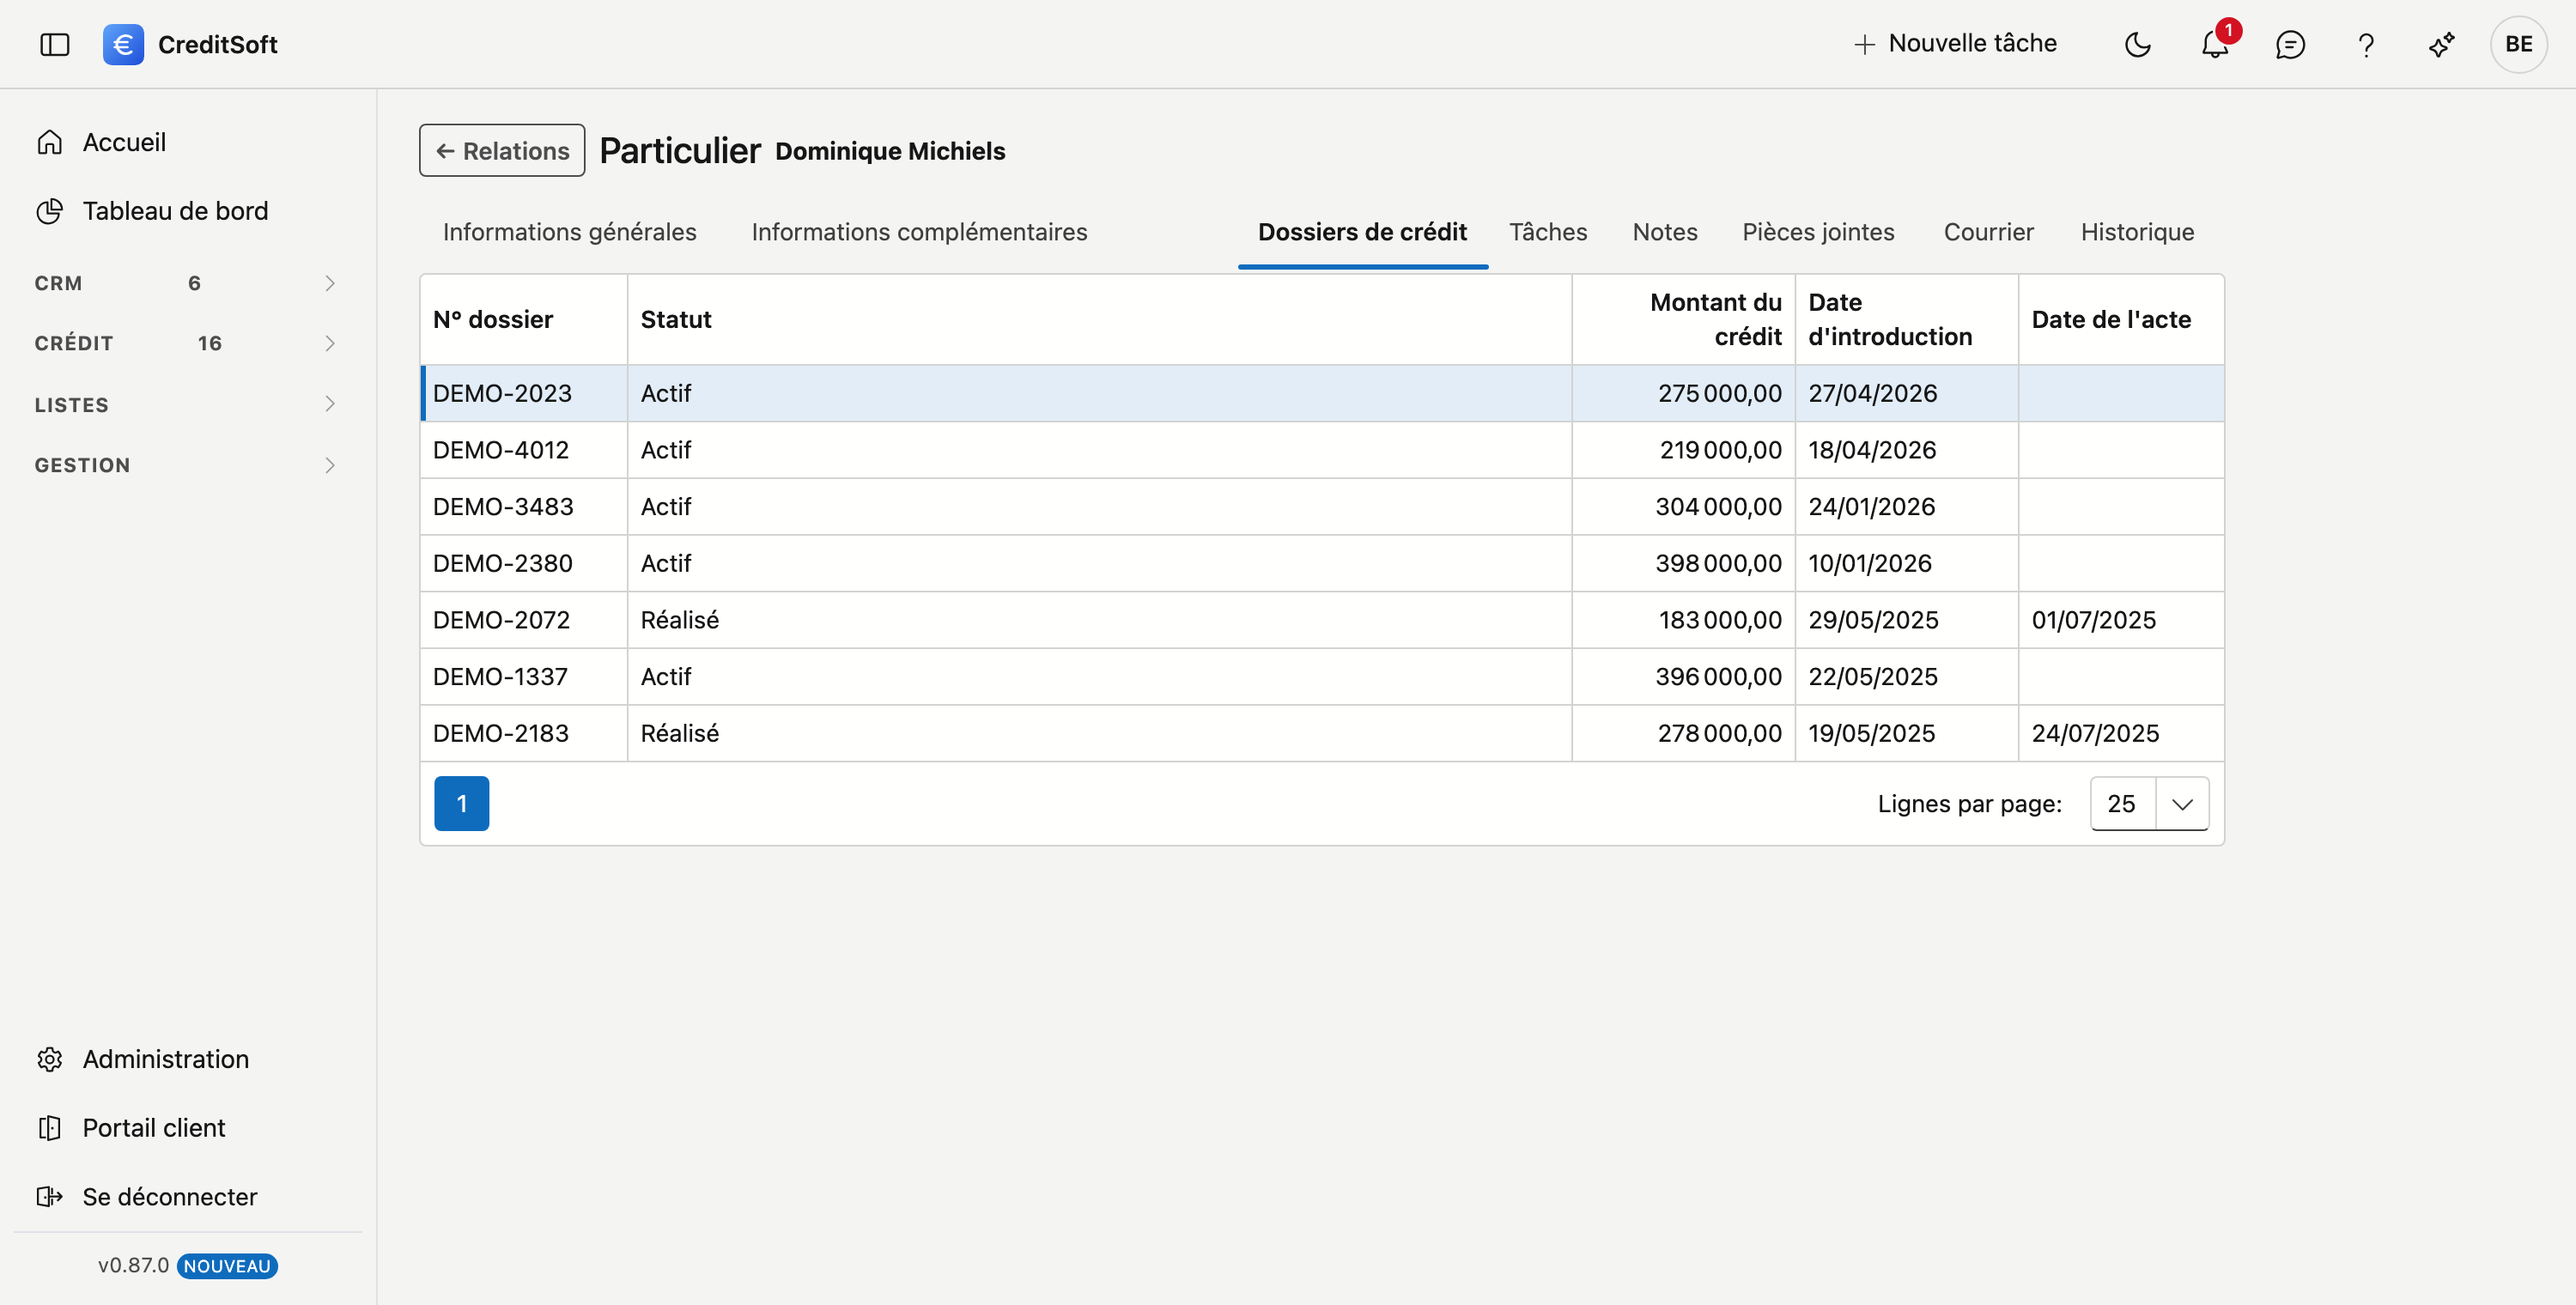
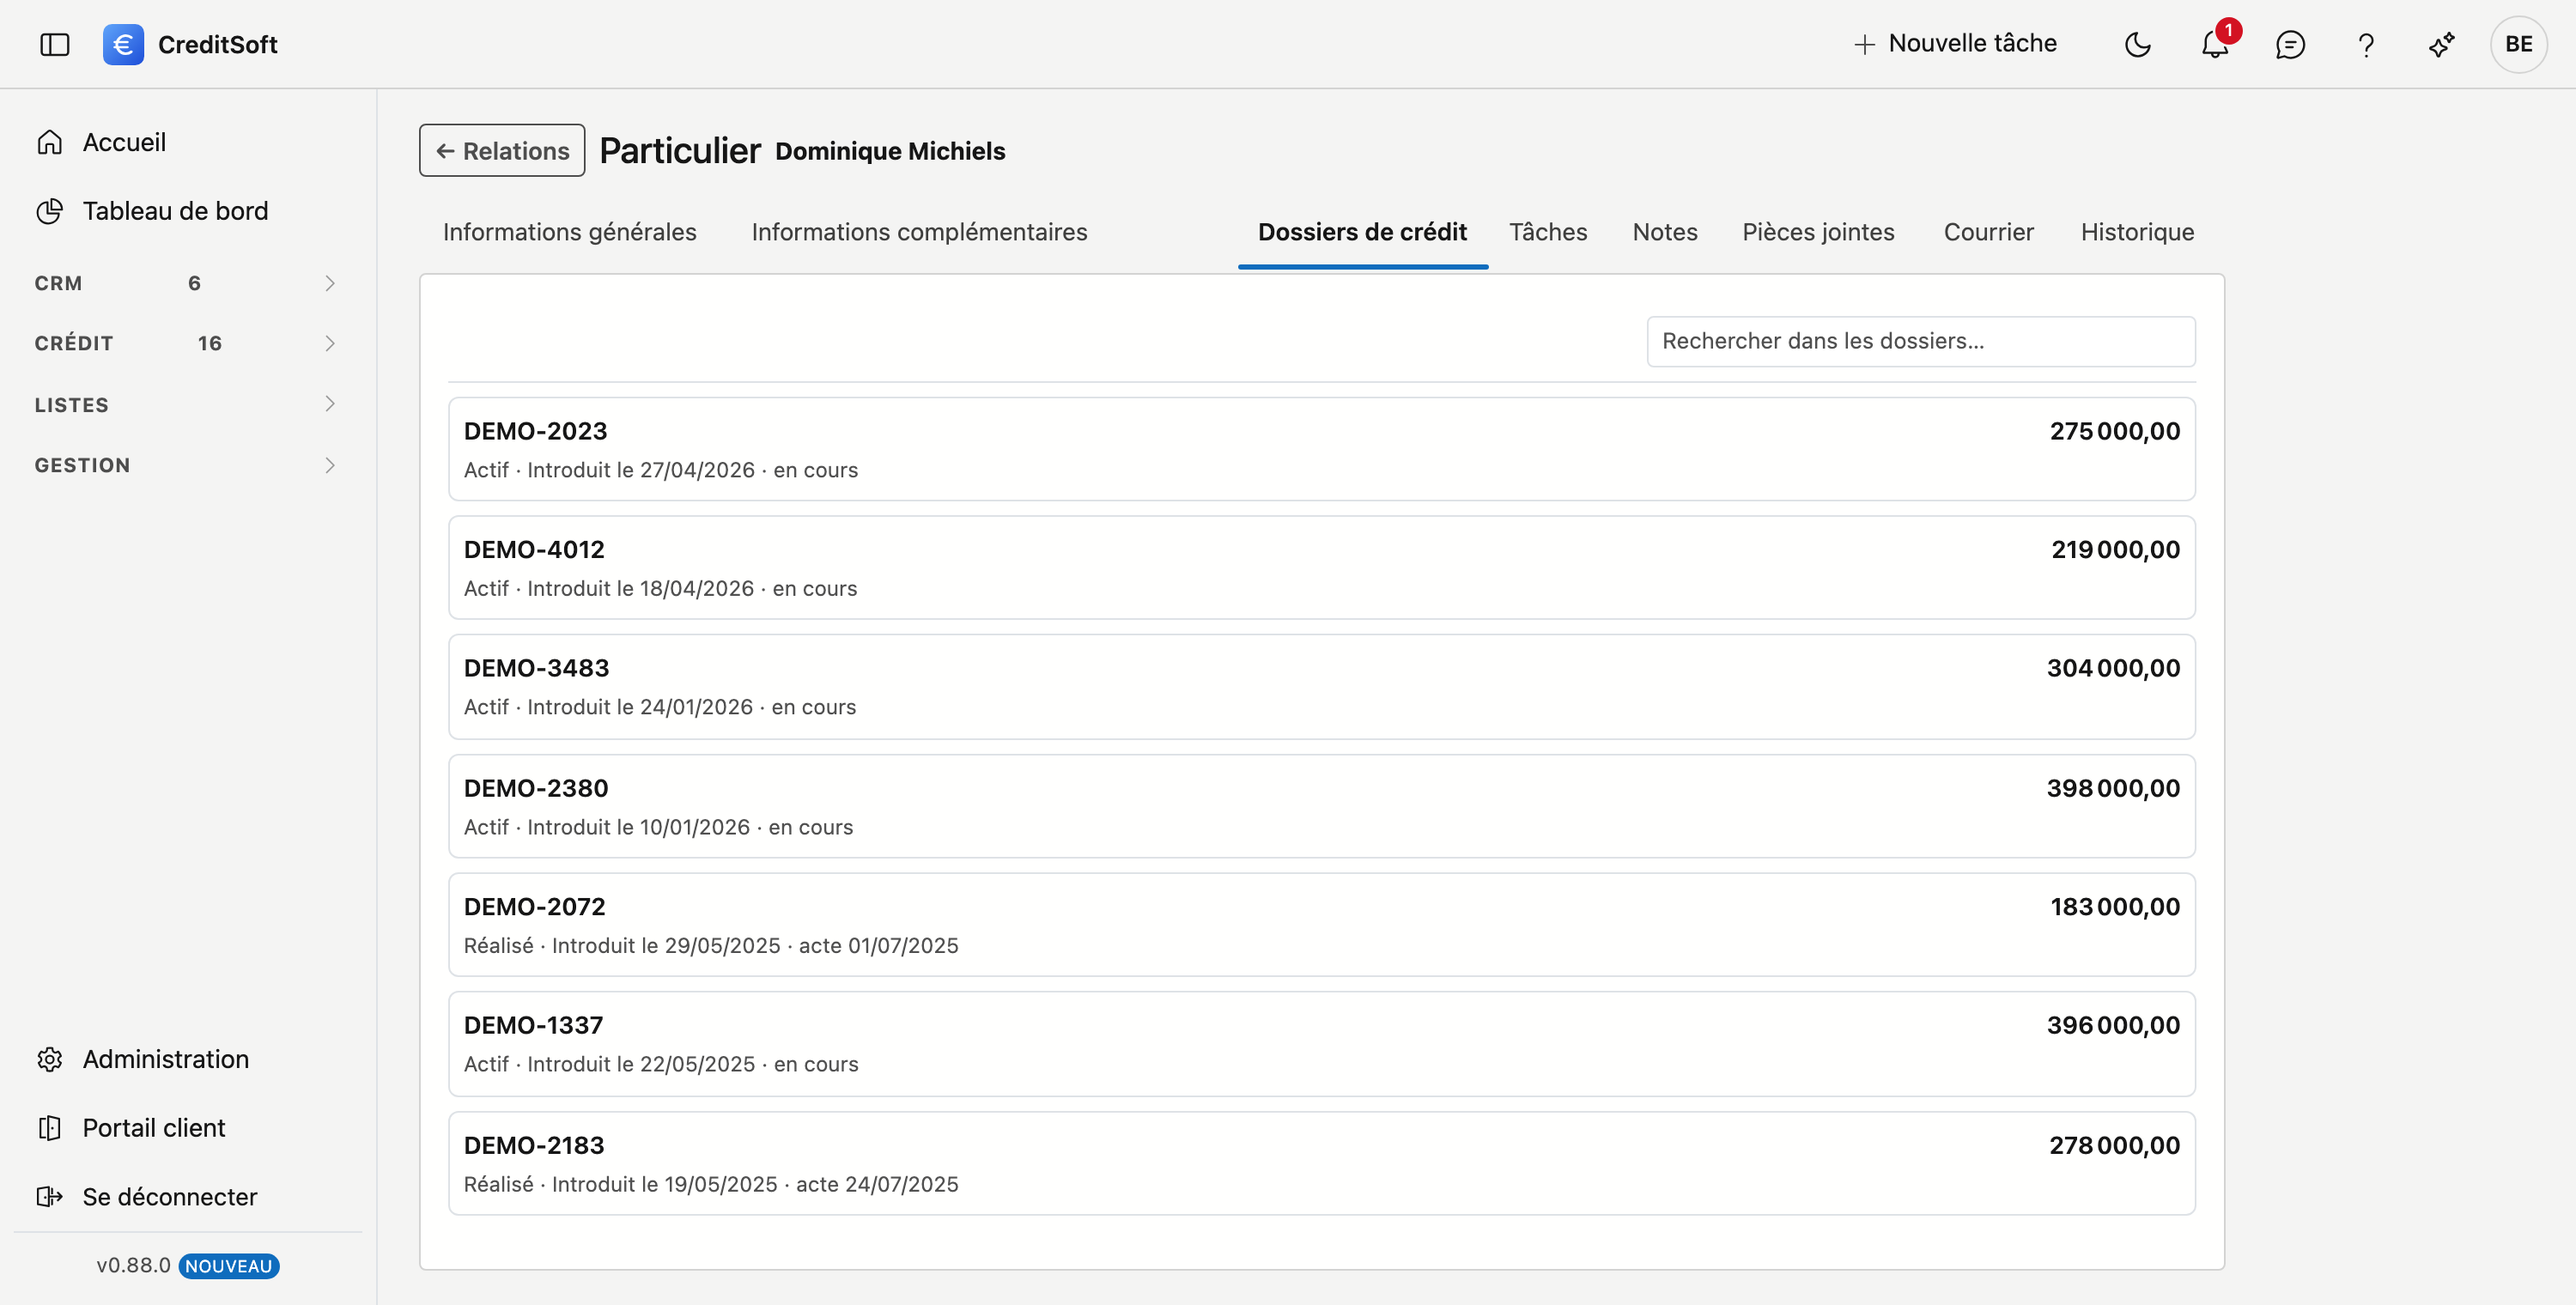
Kredietdossiers: kaarten in plaats van een tabel
De tab is herbouwd in de stijl van de andere journaal-onderdelen — kaarten onder elkaar, niet een
grid. De handleiding beschreef nog kolommen, dus die beschrijving en de twee beelden zijn mee
herzien, inclusief de alt-teksten.

Ook de zoekfunctie erbij vermeld: die bestond niet in de eerste versie.

diff --git a/docs/journaal/kredietdossiers.fr.md b/docs/journaal/kredietdossiers.fr.md
@@ -5,19 +5,23 @@ La rubrique **Dossiers de crédit** affiche les dossiers dans lesquels cette rel
 recherchez, et vous voulez voir immédiatement quel crédit est en cours sans devoir retourner à la liste des
 dossiers.
 
-![L'onglet Dossiers de crédit sur la fiche d'une relation : un tableau avec le numéro de dossier, le statut, le montant du crédit, la date d'introduction et la date de l'acte, l'introduction la plus récente en haut.](../images/journaal-kredietdossiers-fr.png "Les dossiers de ce client, le plus récent en haut"){ .volle-breedte }
+![L'onglet Dossiers de crédit sur la fiche d'une relation : sept dossiers les uns sous les autres, chacun avec le numéro à gauche, le montant du crédit à droite, et en dessous en gris le statut, la date d'introduction et si l'acte est déjà passé.](../images/journaal-kredietdossiers-fr.png "Les dossiers de ce client, le plus récent en haut"){ .volle-breedte }
 
 ## Ce que vous voyez
 
-| Colonne | Signification |
-|---|---|
-| **N° dossier** | Le numéro interne du dossier. |
-| **Statut** | Où en est le dossier — *Actif*, *Réalisé*, *Sans suite*… |
-| **Montant du crédit** | Le montant total de la demande. |
-| **Date d'introduction** | Quand le dossier a été introduit. La liste est triée sur cette date. |
-| **Date de l'acte** | Quand l'acte a été passé. **Vide signifie : le dossier est toujours en cours.** |
+Chaque dossier occupe sa propre ligne. En haut le **numéro de dossier** et à droite le **montant du
+crédit** ; en dessous, en gris, le reste :
 
-**Double-cliquez sur une ligne** pour ouvrir le dossier.
+**Actif · Introduit le 27/04/2026 · en cours**
+
+| Élément | Signification |
+|---|---|
+| Le **statut** | Où en est le dossier — *Actif*, *Réalisé*, *Sans suite*… |
+| **Introduit le** | Quand le dossier a été introduit. La liste est triée sur cette date, la plus récente en haut. |
+| **acte** ou **en cours** | Si l'acte a été passé, sa date figure ici. Sinon, le dossier est toujours en cours. |
+
+**Cliquez sur une ligne** pour ouvrir le dossier. Pour retrouver un dossier précis, le champ de recherche en
+haut filtre sur le numéro et le statut.
 
 ## Ce que ce n'est pas
 

diff --git a/docs/journaal/kredietdossiers.md b/docs/journaal/kredietdossiers.md
@@ -4,19 +4,23 @@ Het onderdeel **Kredietdossiers** toont de dossiers waarin deze relatie als **aa
 bovenaan. Het bestaat voor één moment: de klant belt, u zoekt hem op, en u wilt meteen zien welk krediet er
 loopt zonder eerst naar de dossierlijst terug te moeten.
 
-![Het tabblad Kredietdossiers op de fiche van een relatie: een tabel met dossiernummer, status, kredietbedrag, datum indiening en datum akte, de recentste indiening bovenaan.](../images/journaal-kredietdossiers.png "De dossiers van deze klant, recentste bovenaan"){ .volle-breedte }
+![Het tabblad Kredietdossiers op de fiche van een relatie: zeven dossiers onder elkaar, elk met het dossiernummer links, het kredietbedrag rechts, en daaronder in het grijs de status, de indieningsdatum en of de akte er al is.](../images/journaal-kredietdossiers.png "De dossiers van deze klant, recentste bovenaan"){ .volle-breedte }
 
 ## Wat u ziet
 
-| Kolom | Betekenis |
-|---|---|
-| **Dossiernr.** | Het interne nummer van het dossier. |
-| **Status** | Waar het dossier staat — *Actief*, *Gerealiseerd*, *Zonder gevolg* … |
-| **Kredietbedrag** | Het totale bedrag van de aanvraag. |
-| **Datum indiening** | Wanneer het dossier is ingediend. Hierop is de lijst gesorteerd. |
-| **Datum akte** | Wanneer de akte verleden is. **Leeg betekent: het dossier loopt nog.** |
+Elk dossier staat op een eigen regel. Bovenaan het **dossiernummer** en rechts het **kredietbedrag**;
+eronder in het grijs de rest:
 
-**Dubbelklik op een regel** om het dossier te openen.
+**Actief · Ingediend 27/04/2026 · loopt nog**
+
+| Wat | Betekenis |
+|---|---|
+| De **status** | Waar het dossier staat — *Actief*, *Gerealiseerd*, *Zonder gevolg* … |
+| **Ingediend** | Wanneer het dossier is ingediend. Hierop is de lijst gesorteerd, recentste bovenaan. |
+| **akte** of **loopt nog** | Is de akte verleden, dan staat die datum er. Zo niet, dan loopt het dossier nog. |
+
+**Klik op een regel** om het dossier te openen. Zoekt u iets bepaalds, dan filtert het zoekveld bovenaan op
+dossiernummer en status.
 
 ## Wat het niet is
 
